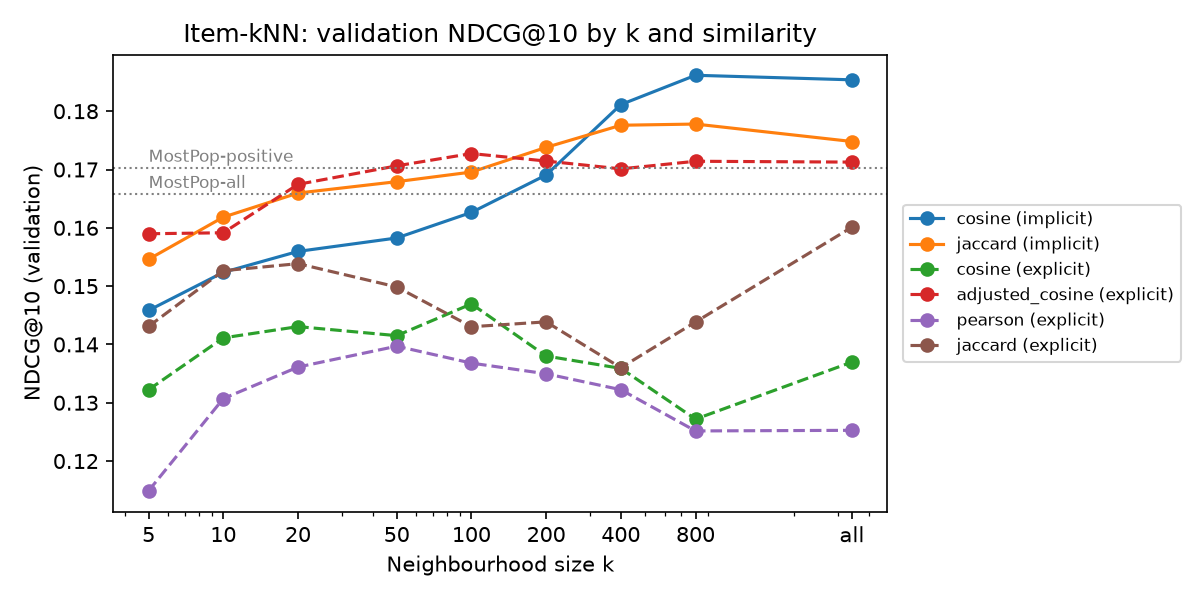
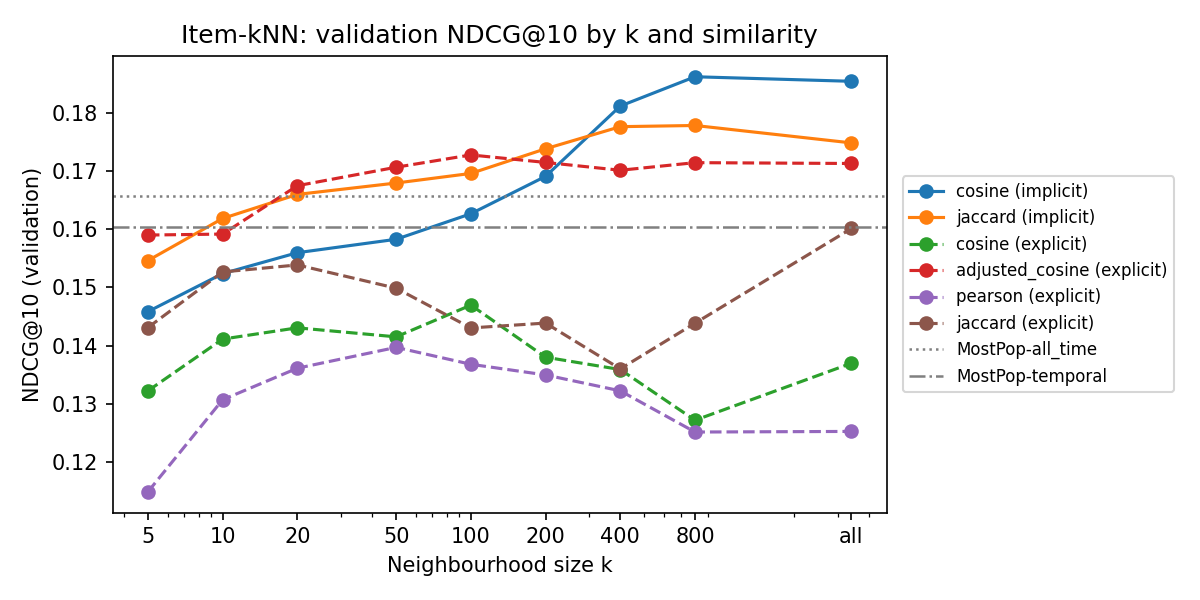
knn update with most popular

diff --git a/item_knn.py b/item_knn.py
@@ -20,15 +20,17 @@ import numpy as np
 import pandas as pd
 from scipy import stats
 
-from evaluation import (RELEVANCE_THRESHOLD, TOP_N, catalogue_index, check_against_sklearn,
-                        evaluate, evaluation_set, interaction_matrix, paired_bootstrap)
+import most_popular
+from evaluation import (TOP_N, catalogue_index, check_against_sklearn, evaluate, evaluation_set,
+                        interaction_matrix, paired_bootstrap)
 
 K_GRID = [5, 10, 20, 50, 100, 200, 400, 800, None]
 SIMILARITIES = {
     "implicit": ["cosine", "jaccard"],
     "explicit": ["cosine", "adjusted_cosine", "pearson", "jaccard"],
 }
-POPULARITY_VARIANTS = {"MostPop-all": False, "MostPop-positive": True}
+POPULARITY_MODELS = {"MostPop-all_time": most_popular.all_time_scores,
+                     "MostPop-temporal": most_popular.temporal_scores}
 METRIC = f"ndcg@{TOP_N}"
 
 
@@ -91,22 +93,14 @@ def knn_scores(W, S_k):
     return W @ S_k.T
 
 
-def popularity_scores(history, items, positive_only, n_users):
-    """All-time Most Popular scores, the comparison point for kNN until the team's
-    Most Popular module is in the repo."""
-    df = history[history["Rating"] >= RELEVANCE_THRESHOLD] if positive_only else history
-    counts = df["MovieID"].value_counts().reindex(items, fill_value=0).to_numpy(np.float64)
-    return np.tile(counts, (n_users, 1))
-
-
 def run_period(history, heldout, users, items, configs):
-    """Evaluate the popularity variants and the given kNN configurations on one held-out period.
-    Returns the summary table, the per-user metrics and the top-n lists of every model."""
+    """Evaluate the Most Popular variants (most_popular.py) and the given kNN configurations on
+    one held-out period. Returns the summary table, the per-user metrics and the top-n lists."""
     eval_set = evaluation_set(history, heldout, users, items)
     summary, per_user, tops = [], {}, {}
 
-    for name, positive_only in POPULARITY_VARIANTS.items():
-        scores = popularity_scores(history, items, positive_only, len(eval_set.rows))
+    for name, popularity in POPULARITY_MODELS.items():
+        scores = popularity(history, items, len(eval_set.rows))
         row, per_user[name], tops[name] = evaluate(scores, eval_set)
         summary.append({"model": name, **row})
 
@@ -164,10 +158,8 @@ def plot_k_sweep(grid, popularity, n_items, path):
         x = [n_items if k == "all" else k for k in g["k"]]
         ax.plot(x, g[METRIC], marker="o", label=f"{measure} ({feedback})",
                 linestyle="-" if feedback == "implicit" else "--")
-    for name, value in popularity.items():
-        ax.axhline(value, color="grey", linestyle=":", linewidth=1)
-        ax.annotate(name, (K_GRID[0], value), textcoords="offset points", xytext=(0, 3),
-                    fontsize=8, color="grey")
+    for (name, value), style in zip(popularity.items(), [":", "-."]):
+        ax.axhline(value, color="grey", linestyle=style, linewidth=1.2, label=name)
     ax.set_xscale("log")
     ax.set_xticks([k for k in K_GRID if k is not None] + [n_items])
     ax.set_xticklabels([str(k) for k in K_GRID[:-1]] + ["all"])
